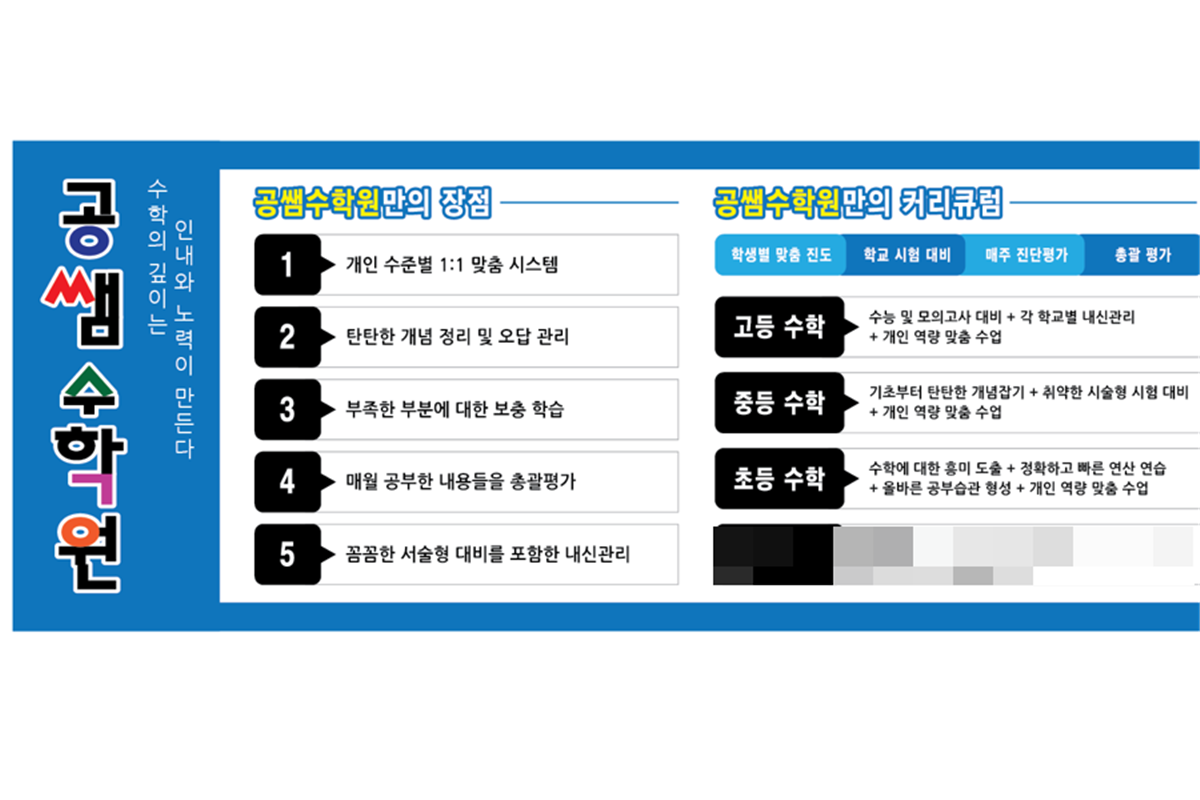
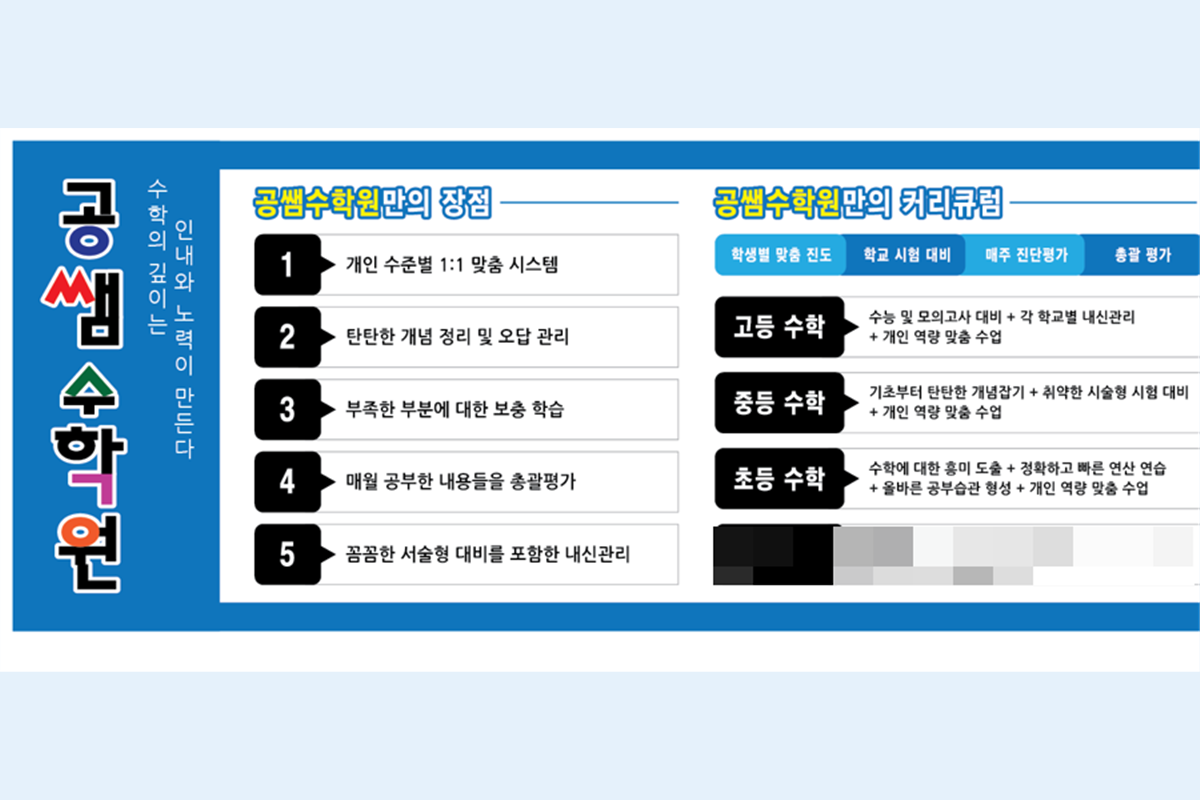
Fit four academy card images to their frames

diff --git a/index.html b/index.html
@@ -236,7 +236,7 @@
           </div>
           <div class="about-story-featured">
             <article class="about-story" id="about-studyroom">
-              <a class="about-story-image" href="#save-teeth"><img src="imges/main/about-studyroom-1.jpg" width="900" height="1200" alt="관리형 자습실 사진 4장 보기" loading="lazy" decoding="async"></a>
+              <a class="about-story-image" href="#save-teeth"><img src="imges/main/about-studyroom-card.jpg" width="1200" height="800" alt="관리형 자습실 사진 4장 보기" loading="lazy" decoding="async"></a>
               <div class="about-story-content">
                 <p class="about-story-meta">관리형 자습실 <time datetime="2026-10-22">2026.10.22</time></p>
                 <h3>관리형 자습실 오픈</h3>
@@ -253,7 +253,7 @@
               </div>
             </article>
             <article class="about-story" id="about-football">
-              <a class="about-story-image" href="imges/main/about-football-1.jpg"><img src="imges/main/about-football-1.jpg" width="900" height="900" alt="학원에 전해진 박종우 선수 사인" loading="lazy" decoding="async"></a>
+              <a class="about-story-image" href="imges/main/about-football-1.jpg"><img src="imges/main/about-football-card.jpg" width="1200" height="800" alt="학원에 전해진 박종우 선수 사인" loading="lazy" decoding="async"></a>
               <div class="about-story-content">
                 <p class="about-story-meta">학원 이야기 <time datetime="2026-07-09">2026.07.09</time></p>
                 <h3>박종우 선수의 방문</h3>
@@ -290,7 +290,7 @@
               </div>
             </article>
             <article class="about-story" id="about-consult">
-              <a class="about-story-image" href="imges/main/about-consult-1.jpg"><img src="imges/main/about-consult-1.jpg" width="900" height="1200" alt="공쌤수학원 출입구" loading="lazy" decoding="async"></a>
+              <a class="about-story-image" href="imges/main/about-consult-1.jpg"><img src="imges/main/about-consult-card.jpg" width="1200" height="800" alt="공쌤수학원 출입구" loading="lazy" decoding="async"></a>
               <div class="about-story-content">
                 <p class="about-story-meta">맞춤 수업 <time datetime="2026-02-26">2026.02.26</time></p>
                 <h3>신학기 학원 선택과 학습 상담</h3>
@@ -382,7 +382,7 @@
                 </div>
               </article>
               <article class="about-story" id="about-clinic">
-                <a href="imges/main/about-clinic-1.png"><img src="imges/main/about-clinic-card.png" width="1200" height="800" alt="공쌤수학원 수업과 오답 클리닉 안내" loading="lazy" decoding="async"></a>
+                <a href="imges/main/about-clinic-1.png"><img src="imges/main/about-clinic-card.png?v=wide-blue" width="1200" height="800" alt="공쌤수학원 수업과 오답 클리닉 안내" loading="lazy" decoding="async"></a>
                 <div class="about-story-content">
                   <p class="about-story-meta">맞춤 수업 <time datetime="2023-08-13">2023.08.13</time></p>
                   <h3>1:1 진도와 오답 클리닉</h3>
